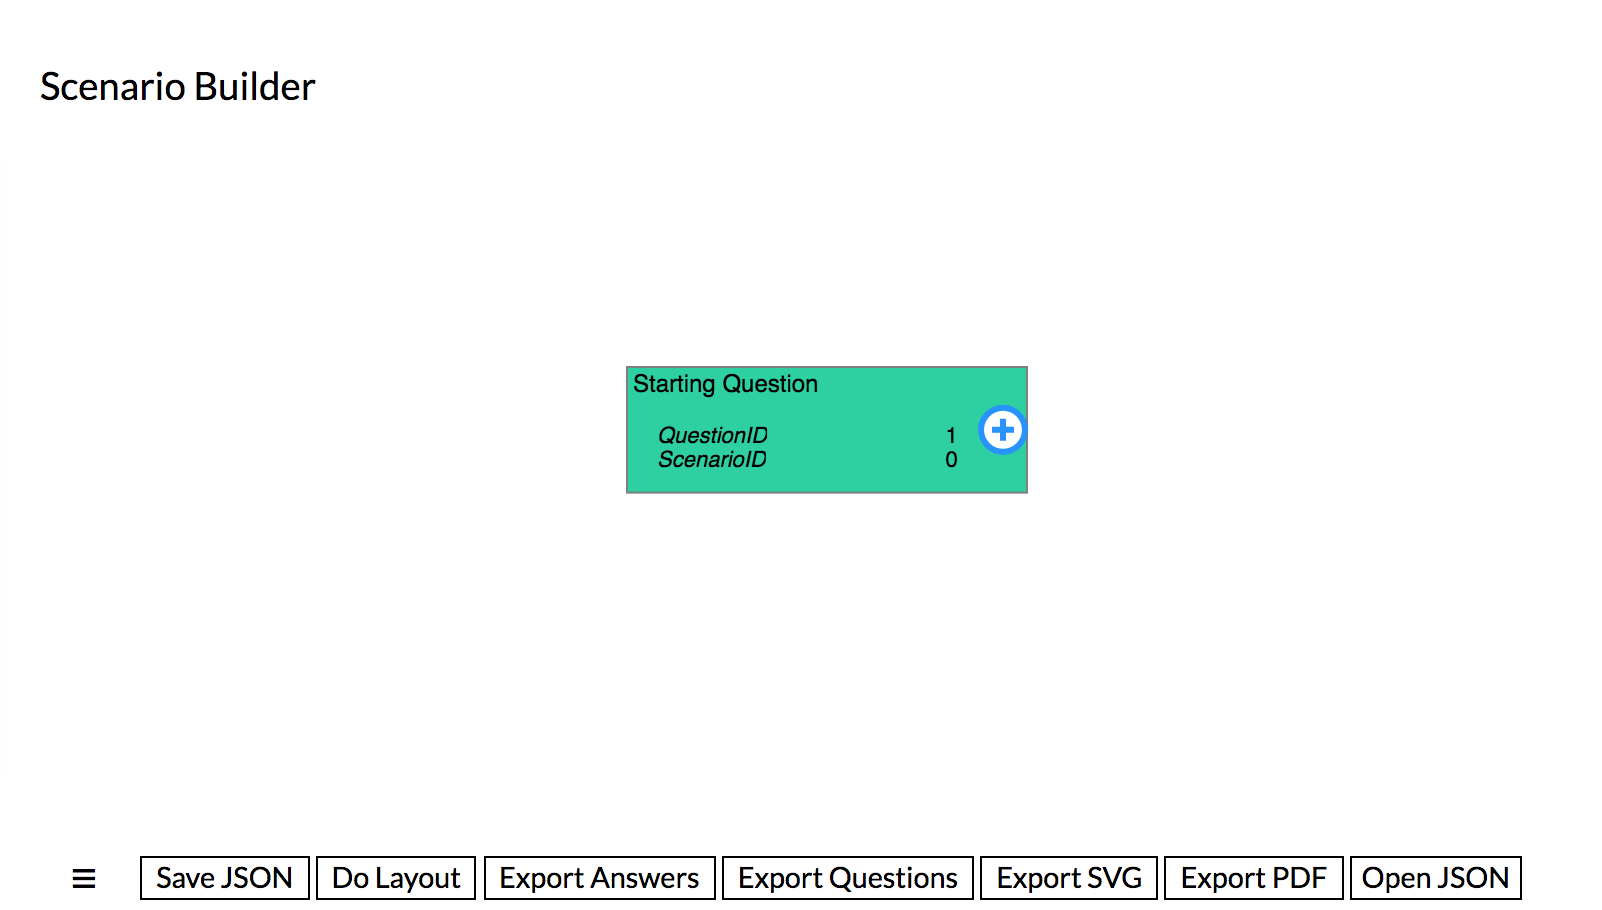
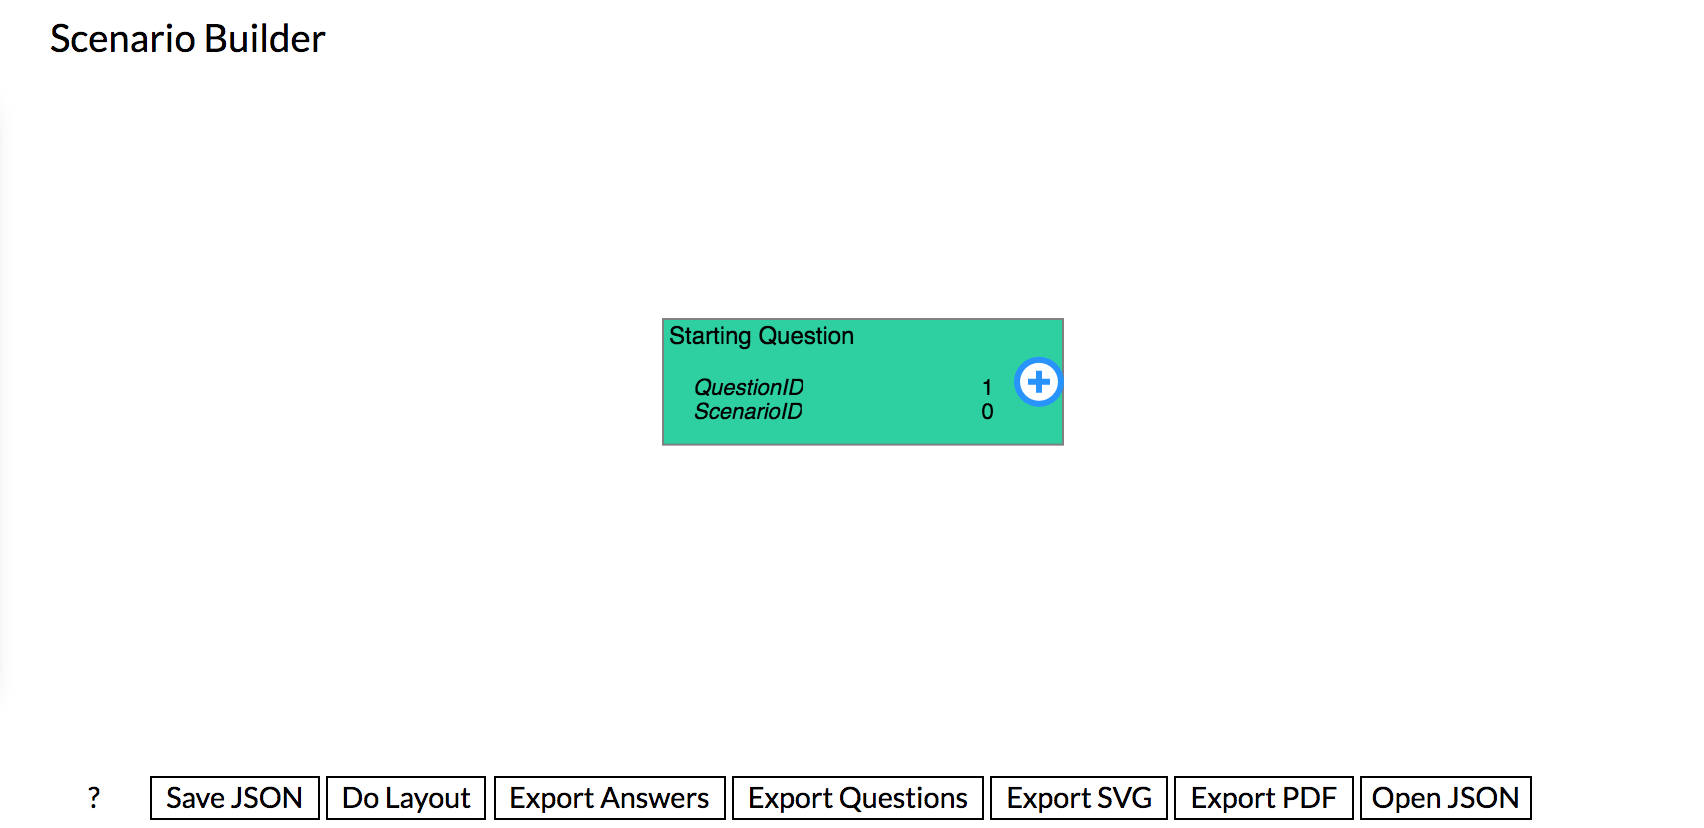
Updated gh-page

diff --git a/docs/README.md b/docs/README.md
@@ -3,35 +3,55 @@ PowerUp Scenario Builder is a web app for creating question and answer tables fo
 
 ***
 
-# Basic Use
+<!-- **************************** -->
+<!-- **************************** -->
+<!-- **************************** -->
 
 #### Contents
-- [Starting a New Scenario](#Starting-a-New-Scenario)
-    - [Set the Scenario ID](#Set-the-Scenario-ID)
-    - [Set the Text for the First Question](#Set-the-Text-for-the-First-Question)
-
+- [Setup](#setup)
+    - [Set the Scenario ID](#set-the-scenario-id)
+    - [Set the Text for the First Question](#set-the-text-for-the-first-question)
+- [Cards](#cards)
+    - [Adding and Editing Cards](#adding-and-editing-cards)
+    - [Moving Cards](#moving-cards)
+    - [Deleting Cards](#deleting-cards)
+    - [Card Types](#card-types)
+        - [Question Cards](#question-cards)
+        - [Answer Cards](#answer-cards)
+    - [Re-linking Cards](#re-linking-cards)
+- [Ending the Scenario](#ending-the-scenario)
+- [Menu Options](#menu-options)
+- [Navigating the Work Area](#navigating-the-work-area)
 
 
 Opening the web app will always present a fresh page, but we'll show you how to _save and load_ your work soon.
 
+***
+
 ![](https://github.com/justKD/Powerup-Scenario-Builder/blob/master/docs/images/1-just-opened.png?raw=true)
 
+<!-- **************************** -->
+<!-- **************************** -->
+<!-- **************************** -->
 
+***
 
+## Setup
 
-## Starting a New Scenario
-
+<!-- **************************** -->
+<!-- **************************** -->
+<!-- **************************** -->
 
 #### Set the Scenario ID
 Each graph represents the questions and answers for a single scenario in PowerUp.
 
 When starting a new graph, the first thing you'll want to do is **set your scenario ID**.
 
-> The first card in every graph is unique. It serves as the first question presented to the player, but it also sets the _ScenarioID_ for all subsequent cards.
+> The first card in every graph is unique. It serves as the first question presented to the player, but it also sets the `ScenarioID` for all subsequent cards.
 
 ![](https://github.com/justKD/Powerup-Scenario-Builder/blob/master/docs/images/2-set-scenario-id.png?raw=true)
 
-Double-click on the value next to _ScenarioID_ and change it to match the _ScenarioID_ of the scenario you're working on.
+Double-click on the value next to `ScenarioID` and change it to match the `ScenarioID` of the scenario you're working on.
 
 > _You can edit the values of non-italicized text by double-clicking on it._
 
@@ -40,7 +60,200 @@ Double-click on the value next to _ScenarioID_ and change it to match the _Scena
     - It also creates a name space for numbering questions and answers.
     - If you forget to set it first, you may need to manually update the IDs for some cards.
 
-
+<!-- **************************** -->
+<!-- **************************** -->
+<!-- **************************** -->
 
 #### Set the Text for the First Question
 
+Double-click on the text at the top of each card to change it. 
+
+This will be the text for the first question of the scenario.
+
+![](https://github.com/justKD/Powerup-Scenario-Builder/blob/master/docs/images/3-set-starting-question.png?raw=true)
+
+You don't need to set the `QuestionID` at this time. Add your first answer card, and it will automatically set the starting `QuestionID`.
+
+***
+
+<!-- **************************** -->
+<!-- **************************** -->
+<!-- **************************** -->
+
+## Cards
+
+#### Adding and Editing Cards
+
+On each card, click the plus icon to add a new child card.
+
+> On each card, the text in the top field will appear as the actual question or answer in the game.
+
+- Cards will automatically alternate type (question or answer).
+>
+- Every question can have multiple answer cards attached to either end.
+>
+- Each answer card can only have one question attached to either end.
+    - This is to simplify Q&A relationships in order to avoid mistakes or unnecessary redundancies.
+>
+- Cards can not be linked in a way that would ever create an infinite loop. This rule is further enforced when [re-linking](#re-linking-cards).
+>
+- Cards will attempt to automatically set their `ID` fields.
+>
+- Questions will attempt to update the `NextQID` field of parent answers.
+
+> You can manually edit the values in these fields, but doing so may result in undesired behavior from the automatic numbering system. Always check your work if you make manual edits.
+
+![](https://github.com/justKD/Powerup-Scenario-Builder/blob/master/docs/images/4-adding-more-cards.png?raw=true)
+
+<!-- **************************** -->
+<!-- **************************** -->
+<!-- **************************** -->
+
+#### Moving Cards
+
+To move a card, click and drag on an empty area inside the card.
+
+You can move a card anywhere within the work area, but overlapping cards will be automatically re-positioned.
+
+<!-- **************************** -->
+<!-- **************************** -->
+<!-- **************************** -->
+
+#### Deleting Cards
+
+To delete a card, click inside any empty space in the card to select it, and press your `delete` key.
+
+<!-- **************************** -->
+<!-- **************************** -->
+<!-- **************************** -->
+
+#### Card Types
+
+- ##### Question Cards
+    - `QuestionID` is a unique numerical identifier for that particular question card.
+
+- ##### Answer Cards
+    - `AnswerID` is a unique numerical identifier for that particular answer card.
+        - When adding an answer, the `AnswerID` will be automatically assigned based on the `ScenarioID` set in the starting card.
+        - This value can be manually changed if necessary, but new answers will continue to use the internal counter to set the default `AnswerID`.
+        >
+    - `QuestionID` is the identifier for the preceding question.
+        - It should always match the `QuestionID` of the question card connected to the left port of the answer card.
+        >
+    - `NextQID` is the identifier for the resulting question.
+        - It should always match the `QuestionID` of the question card connected to the right port of the answer card.
+        - This value is automatically assigned when a question is connected.
+        - This field must be manually set in order to [end the scenario](#ending-the-scenario).
+            - A terminating answer should not be connected to a child question.
+        >
+    - `PopupID` determines if selecting this answer will launch a popup event.
+        - These are popup events managed by the PowerUp class `PopupEventPlayer`.
+        - This value should match the appropriate value in `Popups.json`, found in the PowerUp repository.
+        - Set this value to a non-numerical character if there is no popup associated with this answer.
+            - e.g. `&`
+        >
+    - `Points` is the amount of karma points given to the player when this answer is selected.
+        - Defaults to `2`.
+
+<!-- **************************** -->
+<!-- **************************** -->
+<!-- **************************** -->
+
+#### Re-linking Cards
+
+You can delete a link by clicking to select it and pressing your `Delete` key.
+
+![](https://github.com/justKD/Powerup-Scenario-Builder/blob/master/docs/images/5-relink-cards.png?raw=true)
+
+Click and drag on the plus icon (right-side port of a card) to start re-linking a card.
+
+Drag the new link to the left-side port of the target card, and release to create the link.
+
+Re-linking follows the same rules as [adding cards](#adding-and-editing-cards). Attempts to create illegal links are ignored.
+
+![](https://github.com/justKD/Powerup-Scenario-Builder/blob/master/docs/images/6-relink-drag.png?raw=true)
+
+> Manually create links in order to assign multiple answers to the left-side port of a question.
+
+![](https://github.com/justKD/Powerup-Scenario-Builder/blob/master/docs/images/7-multiple-answers-to-question.png?raw=true)
+
+<!-- **************************** -->
+<!-- **************************** -->
+<!-- **************************** -->
+
+***
+
+## Ending the Scenario
+
+End a scenario by manually setting the appropriate value in the `NextQID` field of a terminating answer.
+
+- Set this value to a negative integer to end the scenario and launch a mini-game.
+    - Each mini-game has a unique negative integer as an identifier.
+    - As of `Aug. 1, 2018`:
+        - Minesweeper `-1`
+        - Sink to Swim `-2`
+        - Vocab Matching `-3`
+>
+- Set this value to a non-numerical character to end the scenario without a mini-game.
+    - e.g. `$`
+
+***
+
+## Menu Options
+
+- `?` Opens and closes the quick help panel.
+    - The quick help panel is scrollable.
+>
+- `Save JSON` downloads a local copy of your current work session to your normal web downloads folder.
+    - The file is a representation of the current state of your work session, including all values and card positions.
+    - The file name defaults to `powerup-map.json`, but, after downloading, it can be renamed to something more descriptive.
+>
+- `Do Layout` automatically cleans up the layout of your work area. 
+    - Beware, this will undo any intentional manual layout changes.
+>
+- `Export Answers` will download all answers as a CSV table.
+    - This format matches the database in the Android version of PowerUp.
+    - _For the iOS version, the table will need to be imported into the SQLite database._
+        - The easiest way is probably to use a GUI editor such as [DB Browser for SQLite](https://sqlitebrowser.org/).
+>
+- `Export Questions` will download all questions as a CSV table.
+    - Otherwise, the details are the same as `Export Answers`.
+>
+- `Export SVG` will download the current work session as an editable SVG.
+    - The exported SVG can not be imported, so any editing done to the SVG map is strictly for convenience.
+    - This feature is meant to make it easier to embed the map in other documents, or to share with other reviewers/editors.
+    - Large maps may not be printer-friendly. The SVG can be split up into smaller sections using most vector graphics editors.
+>
+- `Export PDF` will download the current work session as a PDF image.
+    - This feature serves a similar purpose as the `Export SVG` option.
+    - Unless there is a reason to share SVG, this option will typically be better for viewing a static map.
+>
+- `Open JSON` will open a file finder dialog.
+    - Select a previously saved JSON downloaded with the `Save JSON` option, and the work session will be restored.
+    - The file name does not matter. Only the structure of the JSON data.
+
+<!-- **************************** -->
+<!-- **************************** -->
+<!-- **************************** -->
+
+***
+
+## Navigating the Work Area
+
+- Panning the map
+    - Click and drag in empty white space
+    - Arrow keys
+>
+- Zoom
+    - Middle mouse wheel to zoom
+    - Zoom in/out gestures on a touch pad
+    - `ctrl +` and `ctrl -`
+>
+- Undo
+    - `ctrl z` or `cmd z` on macOS
+>
+- Redo
+    - `ctrl y` or `cmd y` on macOS
+>
+- Zoom to fit
+    - `shift z`
